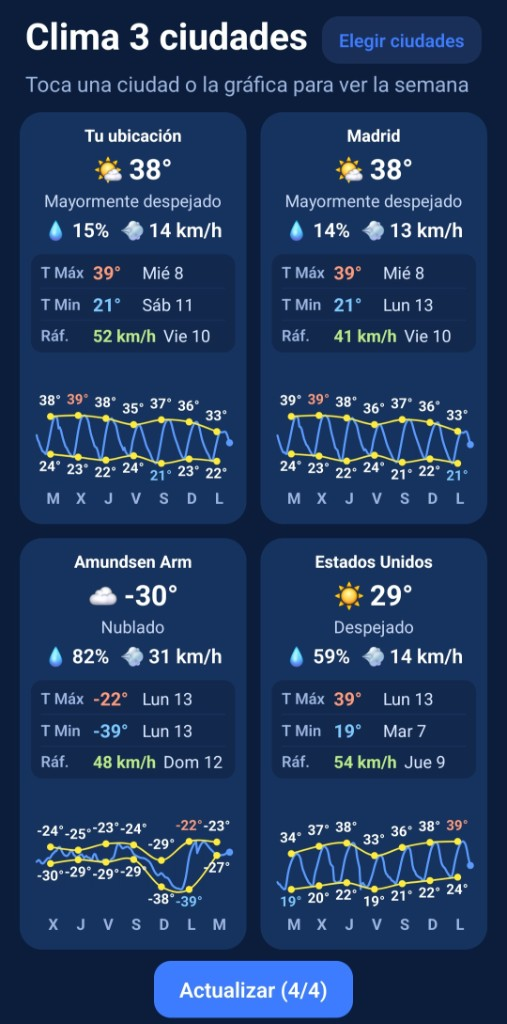
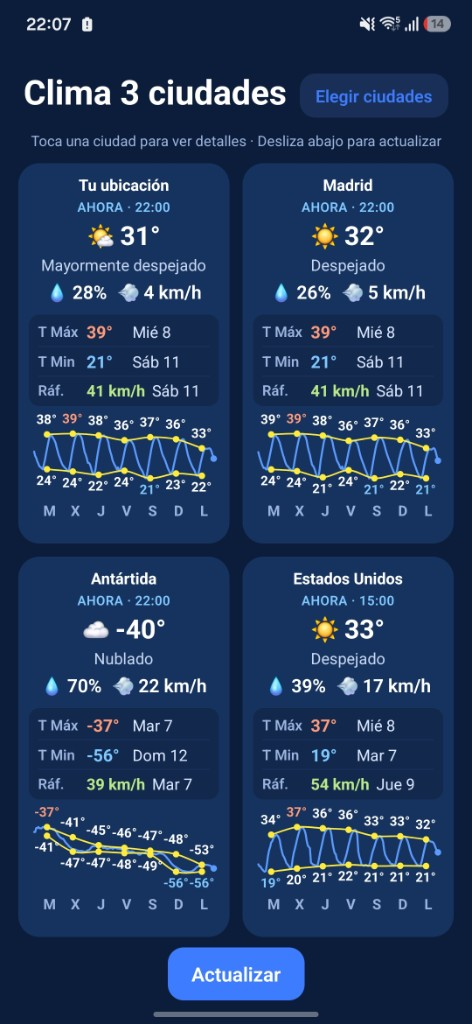
Actualizar capturas principales del README en GitHub.
Muestra la pantalla actual de la app y las gráficas de humedad y viento.

diff --git a/README.md b/README.md
@@ -16,10 +16,9 @@ En el móvil, abre el archivo y permite instalar apps de fuentes desconocidas si
 
 ## Uso
 
-- Toca una **ciudad** para ver el detalle de la semana.
-- Toca la **gráfica** de un cuadro para ver temperatura, humedad y viento en grande.
+- Toca una **ciudad** para ver el detalle completo (clima actual, pronóstico y gráficas).
 - Pulsa **Elegir ciudades** para cambiar las tres ciudades guardadas.
-- Pulsa **Actualizar** para refrescar los datos de las cuatro ubicaciones.
+- Pulsa **Actualizar** o **desliza abajo** para refrescar los datos de las cuatro ubicaciones.
 
 ## Datos
 